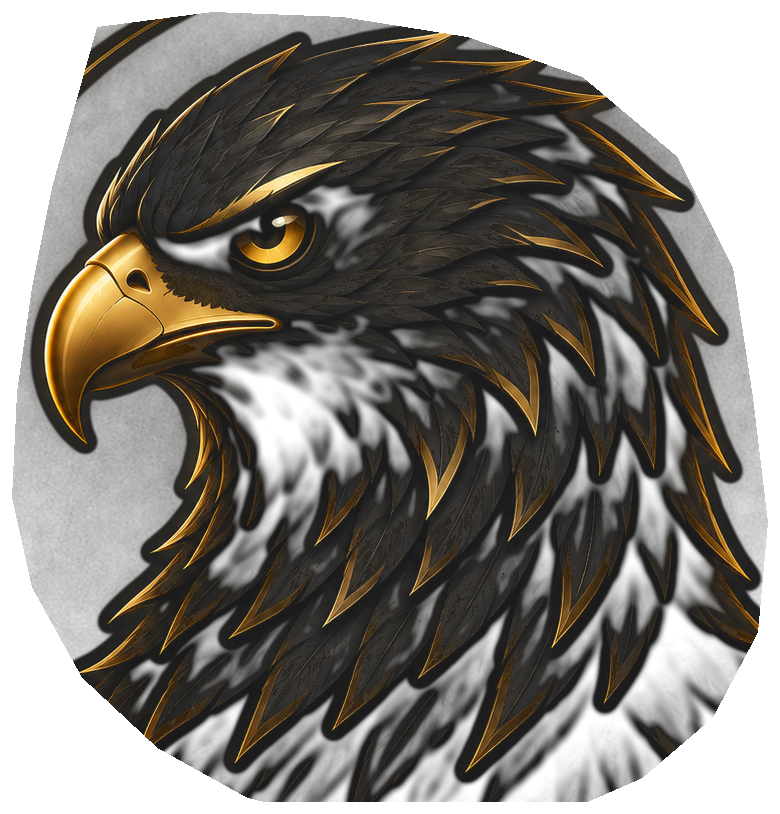
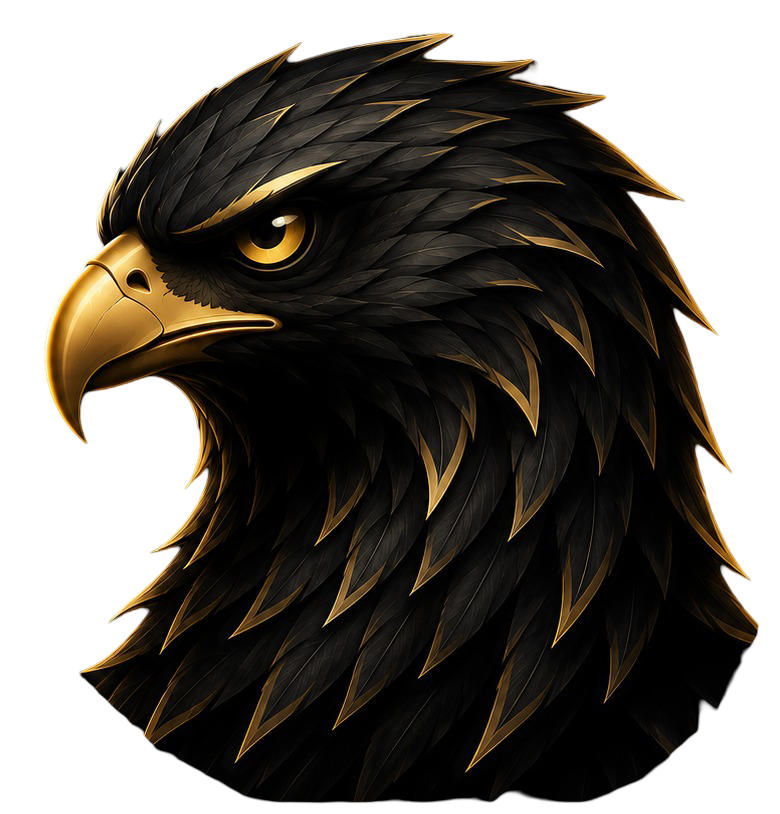
refine Dhaar AI CFO hero

diff --git a/src/app/dashboard/ai-cfo/page.tsx b/src/app/dashboard/ai-cfo/page.tsx
@@ -40,15 +40,23 @@ function formatCurrency(value: number) {
 }
 
 function getMetricStatus(
-  type: "revenue" | "expenses" | "profit" | "receivables",
+  type:
+    | "revenue"
+    | "expenses"
+    | "profit"
+    | "receivables",
   value: number
 ) {
   if (type === "revenue") {
-    return value > 0 ? "Strong activity" : "No revenue yet";
+    return value > 0
+      ? "Strong activity"
+      : "No revenue yet";
   }
 
   if (type === "expenses") {
-    return value === 0 ? "No expenses recorded" : "Under review";
+    return value === 0
+      ? "No expenses recorded"
+      : "Under review";
   }
 
   if (type === "profit") {
@@ -57,11 +65,9 @@ function getMetricStatus(
     return "Break-even";
   }
 
-  if (value > 0) {
-    return "Needs attention";
-  }
-
-  return "Clear";
+  return value > 0
+    ? "Needs attention"
+    : "Clear";
 }
 
 export default async function AICFOPage() {
@@ -73,9 +79,18 @@ export default async function AICFOPage() {
 
   const greeting = getGreeting();
 
-  const revenue = Number(report.finance.revenue ?? 0);
-  const expenses = Number(report.finance.expenses ?? 0);
-  const profit = Number(report.finance.profit ?? 0);
+  const revenue = Number(
+    report.finance.revenue ?? 0
+  );
+
+  const expenses = Number(
+    report.finance.expenses ?? 0
+  );
+
+  const profit = Number(
+    report.finance.profit ?? 0
+  );
+
   const receivables = Number(
     report.finance.outstandingReceivables ?? 0
   );
@@ -85,7 +100,7 @@ export default async function AICFOPage() {
       <div className="mx-auto w-full max-w-7xl">
 
         {/* =====================================================
-            DHAAR EXECUTIVE HERO
+            DHAAR / AI CFO EXECUTIVE HERO
         ====================================================== */}
 
         <section
@@ -105,57 +120,61 @@ export default async function AICFOPage() {
             lg:py-10
           "
         >
-          {/* Gold atmospheric light */}
+
+          {/* Subtle gold atmosphere */}
           <div
             aria-hidden="true"
             className="
               pointer-events-none
               absolute
               right-[-120px]
-              top-[-140px]
+              top-[-160px]
               h-[520px]
               w-[520px]
               rounded-full
-              bg-[#D4AF37]/[0.055]
+              bg-[#D4AF37]/[0.045]
               blur-[150px]
             "
           />
 
-          {/* Secondary ambient light */}
           <div
             aria-hidden="true"
             className="
               pointer-events-none
               absolute
               bottom-[-180px]
-              right-[15%]
+              right-[18%]
               h-[360px]
               w-[360px]
               rounded-full
-              bg-[#D4AF37]/[0.025]
+              bg-[#D4AF37]/[0.018]
               blur-[130px]
             "
           />
 
-          {/* Dhaar */}
+          {/* =================================================
+              DHAAR
+          ================================================== */}
+
           <div
             aria-hidden="true"
             className="
               pointer-events-none
               absolute
-              right-[-55px]
-              top-[-45px]
+              right-[-35px]
+              top-[-25px]
               hidden
-              h-[440px]
+              h-[430px]
               w-[430px]
               sm:block
-              lg:right-[-15px]
-              lg:top-[-70px]
-              lg:h-[520px]
-              lg:w-[510px]
-              xl:right-0
-              xl:h-[560px]
-              xl:w-[550px]
+              lg:right-[-5px]
+              lg:top-[-45px]
+              lg:h-[485px]
+              lg:w-[485px]
+              xl:right-[5px]
+              xl:top-[-55px]
+              xl:h-[515px]
+              xl:w-[515px]
             "
           >
             <Image
@@ -163,26 +182,30 @@ export default async function AICFOPage() {
               alt=""
               fill
               priority
-              sizes="550px"
+              sizes="515px"
               className="
                 object-contain
                 object-center
+                mix-blend-screen
               "
             />
           </div>
 
-          {/* Content */}
+          {/* =================================================
+              HERO CONTENT
+          ================================================== */}
+
           <div
             className="
               relative
               z-10
               max-w-4xl
-              lg:pr-[340px]
-              xl:pr-[410px]
+              lg:pr-[330px]
+              xl:pr-[390px]
             "
           >
 
-            {/* Identity */}
+            {/* Dhaar identity */}
             <div className="flex items-center gap-4">
 
               <div
@@ -267,7 +290,10 @@ export default async function AICFOPage() {
 
             </div>
 
-            {/* Financial Metrics */}
+            {/* =================================================
+                FINANCIAL METRICS
+            ================================================== */}
+
             <div
               className="
                 mt-8
@@ -278,7 +304,6 @@ export default async function AICFOPage() {
               "
             >
 
-              {/* Revenue */}
               <div
                 className="
                   rounded-2xl
@@ -287,7 +312,6 @@ export default async function AICFOPage() {
                   bg-white/[0.025]
                   px-4
                   py-4
-                  backdrop-blur-sm
                 "
               >
                 <p className="text-[10px] uppercase tracking-[0.18em] text-zinc-600">
@@ -299,11 +323,13 @@ export default async function AICFOPage() {
                 </p>
 
                 <p className="mt-2 text-[10px] text-zinc-500">
-                  {getMetricStatus("revenue", revenue)}
+                  {getMetricStatus(
+                    "revenue",
+                    revenue
+                  )}
                 </p>
               </div>
 
-              {/* Expenses */}
               <div
                 className="
                   rounded-2xl
@@ -312,7 +338,6 @@ export default async function AICFOPage() {
                   bg-white/[0.025]
                   px-4
                   py-4
-                  backdrop-blur-sm
                 "
               >
                 <p className="text-[10px] uppercase tracking-[0.18em] text-zinc-600">
@@ -324,11 +349,13 @@ export default async function AICFOPage() {
                 </p>
 
                 <p className="mt-2 text-[10px] text-zinc-500">
-                  {getMetricStatus("expenses", expenses)}
+                  {getMetricStatus(
+                    "expenses",
+                    expenses
+                  )}
                 </p>
               </div>
 
-              {/* Profit */}
               <div
                 className="
                   rounded-2xl
@@ -337,7 +364,6 @@ export default async function AICFOPage() {
                   bg-white/[0.025]
                   px-4
                   py-4
-                  backdrop-blur-sm
                 "
               >
                 <p className="text-[10px] uppercase tracking-[0.18em] text-zinc-600">
@@ -349,11 +375,13 @@ export default async function AICFOPage() {
                 </p>
 
                 <p className="mt-2 text-[10px] text-zinc-500">
-                  {getMetricStatus("profit", profit)}
+                  {getMetricStatus(
+                    "profit",
+                    profit
+                  )}
                 </p>
               </div>
 
-              {/* Receivables */}
               <div
                 className="
                   rounded-2xl
@@ -362,7 +390,6 @@ export default async function AICFOPage() {
                   bg-white/[0.025]
                   px-4
                   py-4
-                  backdrop-blur-sm
                 "
               >
                 <p className="text-[10px] uppercase tracking-[0.18em] text-zinc-600">
@@ -391,10 +418,10 @@ export default async function AICFOPage() {
             className="
               relative
               mx-auto
-              mt-6
-              h-[300px]
+              mt-5
+              h-[260px]
               w-full
-              max-w-[360px]
+              max-w-[330px]
               sm:hidden
             "
           >
@@ -402,8 +429,11 @@ export default async function AICFOPage() {
               src="/images/dhaar/dhaar-mascot.png"
               alt=""
               fill
-              sizes="360px"
-              className="object-contain"
+              sizes="330px"
+              className="
+                object-contain
+                mix-blend-screen
+              "
             />
           </div>
 
